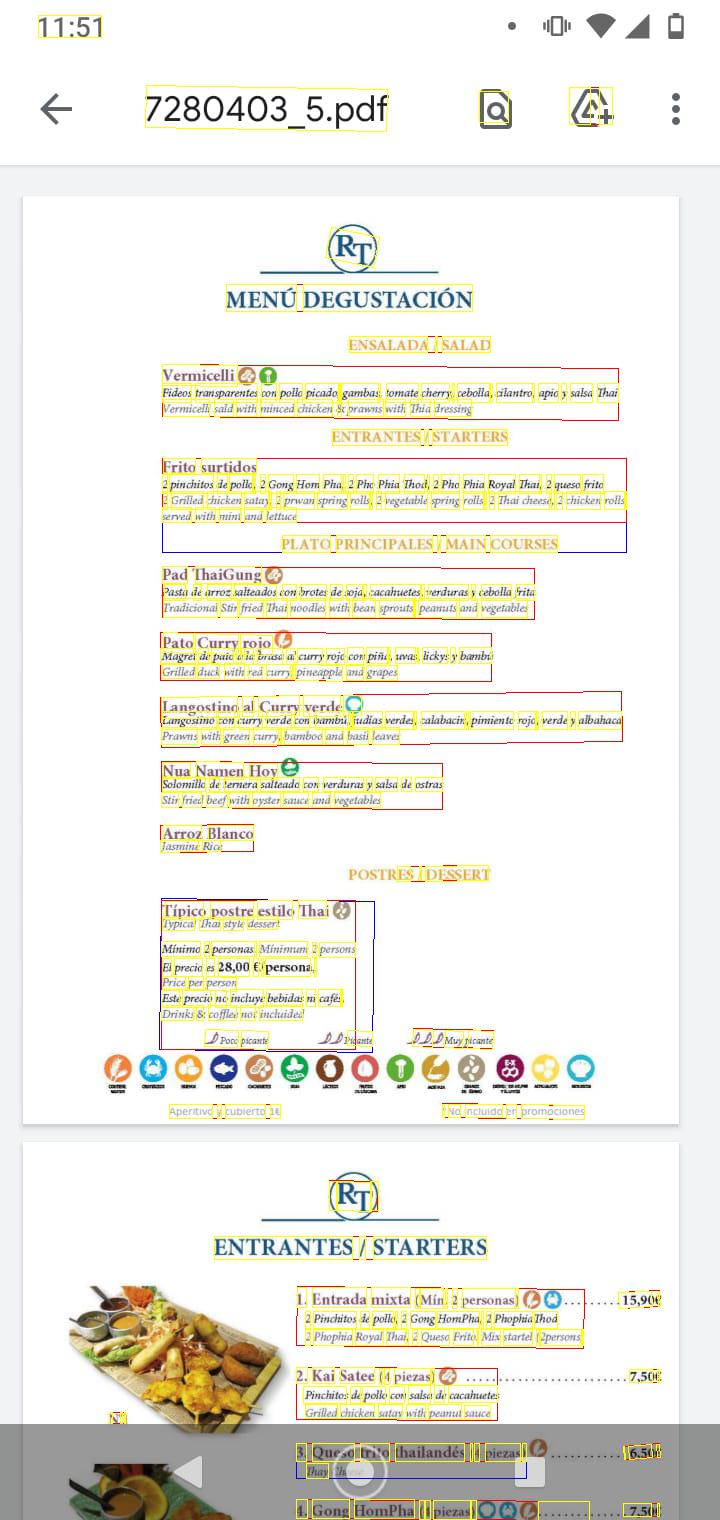
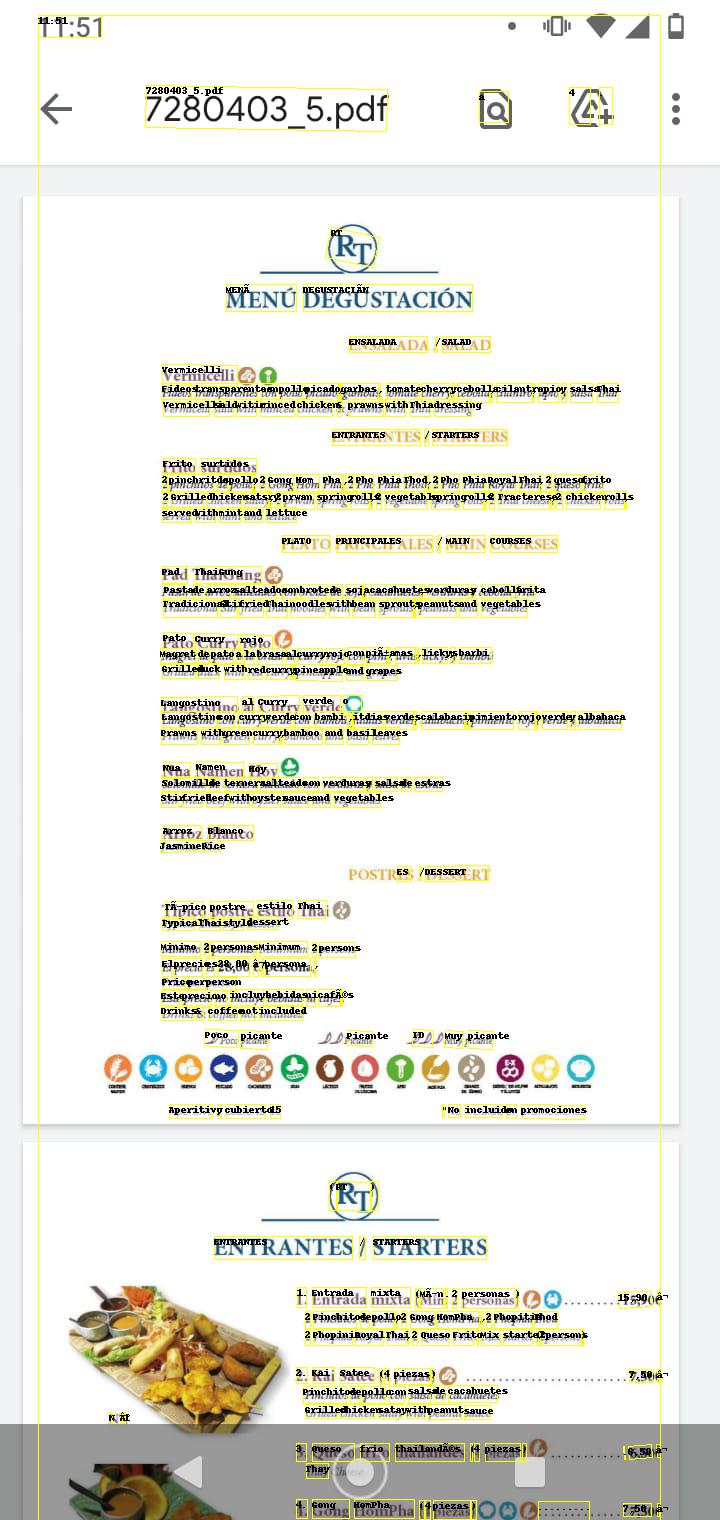
test for print text to file

diff --git a/vision/doctext.py b/vision/doctext.py
@@ -3,7 +3,7 @@ import io
 from enum import Enum
 
 from google.cloud import vision
-from PIL import Image, ImageDraw
+from PIL import Image, ImageDraw, ImageFont
 
 
 class FeatureType(Enum):
@@ -26,12 +26,27 @@ def draw_boxes(image, bounds, color):
             bound.vertices[3].x, bound.vertices[3].y], None, color)
     return image
 
+def draw_text(image, bounds, texts, color):
+    """Draw text in the image """
+    draw = ImageDraw.Draw(image)
+
+    aux = 0
+    #print(texts)
+    #print(bounds)
+    for bound in bounds:
+        if (aux != 0):
+            #print(bound.vertices[0].x)
+            draw.text((bound.vertices[0].x, bound.vertices[0].y), str(texts[aux]).encode('utf-8'), fill="black", anchor="ms")
+        aux += 1
+
+    return image
 
 def get_document_bounds(image_file, feature):
     """Returns document bounds given an image."""
     client = vision.ImageAnnotatorClient()
 
     bounds = []
+    texts = []
 
     with io.open(image_file, 'rb') as image_file:
         content = image_file.read()
@@ -40,8 +55,20 @@ def get_document_bounds(image_file, feature):
 
     response = client.document_text_detection(image=image)
     document = response.full_text_annotation
+    datas = response.text_annotations
+
+    for text in datas:
+        #print('=' * 30)
+        #print(text.description)
+        #vertices = ['(%s,%s)' % (v.x, v.y) for v in text.bounding_poly.vertices]
+        texts.append(text.description)
+        bounds.append(text.bounding_poly)
+
+        #print('bounds:', ",".join(vertices))
+    #print(document)
 
     # Collect specified feature bounds by enumerating all document features
+    """
     for page in document.pages:
         for block in page.blocks:
             for paragraph in block.paragraphs:
@@ -58,19 +85,20 @@ def get_document_bounds(image_file, feature):
 
             if (feature == FeatureType.BLOCK):
                 bounds.append(block.bounding_box)
-
+    """
     # The list `bounds` contains the coordinates of the bounding boxes.
-    return bounds
+    return bounds , texts
 
 
 def render_doc_text(filein, fileout):
     image = Image.open(filein)
-    bounds = get_document_bounds(filein, FeatureType.BLOCK)
-    draw_boxes(image, bounds, 'blue')
-    bounds = get_document_bounds(filein, FeatureType.PARA)
-    draw_boxes(image, bounds, 'red')
-    bounds = get_document_bounds(filein, FeatureType.WORD)
+    #bounds, texts = get_document_bounds(filein, FeatureType.BLOCK)
+    #draw_boxes(image, bounds, 'blue')
+    #bounds, texts = get_document_bounds(filein, FeatureType.PARA)
+    #draw_boxes(image, bounds, 'red')
+    bounds, texts = get_document_bounds(filein, FeatureType.WORD)
     draw_boxes(image, bounds, 'yellow')
+    draw_text(image, bounds, texts, 'yellow')
 
     if fileout != 0:
         image.save(fileout)
